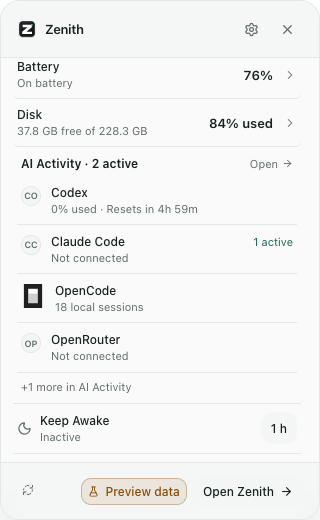
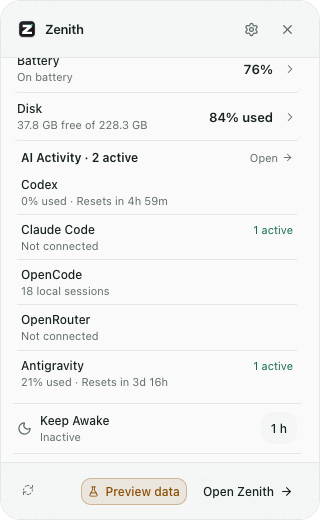
fix(ui): fit quick panel content and unify provider rows

diff --git a/src/routes/dashboard/AiControlCenterView.svelte b/src/routes/dashboard/AiControlCenterView.svelte
@@ -8,7 +8,7 @@
   import Card from '../../lib/components/Card.svelte';
   import ProgressBar from '../../lib/components/ProgressBar.svelte';
   import Switch from '../../lib/components/Switch.svelte';
-  import { Activity, Battery, Bot, GitBranch, RefreshCw, ShieldCheck, Sparkles, X } from '@lucide/svelte';
+  import { Activity, Battery, Bot, GitBranch, RefreshCw, ShieldCheck, X } from '@lucide/svelte';
 
   interface Props { onNavigateTab?: (tab: DashboardRoute) => void }
   let { onNavigateTab }: Props = $props();
@@ -88,7 +88,7 @@
 <div class="space-y-6">
   <div class="flex items-center justify-between border-b border-border/60 pb-3">
     <div class="flex items-center gap-3">
-      <div class="flex h-9 w-9 items-center justify-center rounded-lg bg-violet-500/10 text-violet-400"><Sparkles size={19} /></div>
+      <div class="flex h-9 w-9 items-center justify-center rounded-lg bg-secondary text-foreground"><Activity size={19} /></div>
       <div><h2 class="text-base font-semibold tracking-tight">AI Control Center</h2><p class="mt-0.5 text-xs text-muted-foreground">Provenance-aware usage, verified sessions, and advisory safety controls</p></div>
     </div>
     <div class="flex items-center gap-2 shrink-0">

diff --git a/src/lib/components/AiUsageCards.svelte b/src/lib/components/AiUsageCards.svelte
@@ -1,7 +1,6 @@
 <script lang="ts">
   import type { AiProviderUsage } from '../models/types';
   import { formatResetDate, formatTimeUntil } from '../utils/format';
-  import { Bot, Terminal, Zap } from '@lucide/svelte';
   import Button from './Button.svelte';
   import Card from './Card.svelte';
   import ProgressBar from './ProgressBar.svelte';
@@ -37,12 +36,7 @@
     {@const loading = isProviderLoading(provider.id)}
     <Card class="flex min-h-[190px] flex-col p-4">
       <div class="flex items-start justify-between gap-3">
-        <div class="flex items-center gap-2.5 min-w-0">
-          <div class="h-8 w-8 shrink-0 rounded-lg bg-secondary flex items-center justify-center text-foreground">
-            {#if provider.id === 'codex' || provider.id === 'openai-api'}<Zap size={16} />
-            {:else if provider.id === 'opencode' || provider.id === 'muse-code'}<Terminal size={16} />
-            {:else}<Bot size={16} />{/if}
-          </div>
+        <div class="min-w-0">
           <div class="min-w-0">
             <h3 class="truncate text-body font-semibold">
               {provider.name}{provider.model_identity ? ` · ${provider.model_identity}` : ''}

diff --git a/src/routes/quick/QuickPanel.svelte b/src/routes/quick/QuickPanel.svelte
@@ -50,7 +50,7 @@
   } from '@lucide/svelte';
 
   /** Keep the panel useful without turning it into an agent inventory. */
-  const AI_ROW_LIMIT = 4;
+  const AI_ROW_LIMIT = 5;
 
   let panelActive = false;
   let showResultModal = $state(false);
@@ -516,9 +516,8 @@
       {:else}
         <ul class="divide-y divide-border">
           {#each visibleAiRows as row (row.id)}
-            <li class="flex min-w-0 items-start gap-2.5 px-1 py-2">
-              <BrandIcon identity={row.identity} label={row.name} size={20} class="mt-0.5" />
-              <div class="min-w-0 flex-1">
+            <li class="min-w-0 px-1 py-1.5">
+              <div class="min-w-0">
                 <div class="flex min-w-0 items-baseline justify-between gap-2">
                   <span class="min-w-0 break-words text-meta font-medium text-foreground">{row.name}</span>
                   {#if row.sessions.length > 0}

diff --git a/src/app.css b/src/app.css
@@ -197,8 +197,9 @@
    silhouette; the main window keeps the opaque page background. Without this
    the body would paint square corners behind the panel. */
 html.transparent-window,
-html.transparent-window body {
-  background: transparent;
+html.transparent-window body,
+html.transparent-window #app {
+  background-color: transparent;
 }
 
 /* Native dragging is started from the Svelte mouse handler via Tauri. */
@@ -349,8 +350,10 @@ html.transparent-window body {
 
 .quick-liquid-shell {
   border: 1px solid hsl(var(--border));
+  border-radius: var(--radius-2xl);
   background: hsl(var(--background));
   box-shadow: 0 16px 36px hsl(var(--foreground) / 0.11);
+  clip-path: inset(0 round var(--radius-2xl));
 }
 
 .quick-liquid-chrome {

diff --git a/src/lib/utils/quickPanel.ts b/src/lib/utils/quickPanel.ts
@@ -177,7 +177,6 @@ export function formatQuickProviderUsage(provider: AiProviderUsage, loading: boo
 export interface QuickAiRow {
   id: string;
   name: string;
-  identity: string;
   provider: AiProviderUsage | null;
   sessions: AgentQuickSessionRow[];
 }
@@ -195,7 +194,6 @@ export function projectQuickAiRows(
     const row: QuickAiRow = {
       id: `provider-${identity}`,
       name: provider.name,
-      identity: provider.id,
       provider,
       sessions: [],
     };
@@ -212,7 +210,6 @@ export function projectQuickAiRows(
     const row: QuickAiRow = {
       id: `session-${identity}`,
       name: session.tool_name,
-      identity: session.tool_name,
       provider: null,
       sessions: [session],
     };

diff --git a/src/test/quickPanel.test.ts b/src/test/quickPanel.test.ts
@@ -218,6 +218,10 @@ describe('quick panel AI provider projection', () => {
       expect(body).toContain('OpenCode');
       expect(body).not.toContain('Claude Code');
       expect(body).toContain('12 local sessions');
+      const activitySection = body.match(/<section[^>]*aria-label="Active AI and services"[\s\S]*?<\/section>/)?.[0];
+      expect(activitySection).toBeDefined();
+      expect(activitySection).not.toContain('<img');
+      expect(activitySection).not.toContain('>OP<');
     } finally {
       settingsStore.settings = previousSettings;
       usageStore.snapshot = previousSnapshot;

diff --git a/src-tauri/src/lib.rs b/src-tauri/src/lib.rs
@@ -49,10 +49,10 @@ use std::sync::{Arc, Mutex};
 use tauri::image::Image;
 use tauri::menu::{Menu, MenuItem, PredefinedMenuItem};
 use tauri::tray::{MouseButton, MouseButtonState, TrayIconBuilder, TrayIconEvent};
-use tauri::utils::config::WindowConfig;
+use tauri::utils::config::{Color, WindowConfig};
 use tauri::utils::TitleBarStyle;
 use tauri::{
-    AppHandle, Manager, PhysicalPosition, PhysicalSize, Rect, Runtime, WebviewWindow,
+    AppHandle, LogicalSize, Manager, PhysicalPosition, PhysicalSize, Rect, Runtime, WebviewWindow,
     WebviewWindowBuilder,
 };
 use zenith_platform::path_algebra::PathFlavor;
@@ -64,10 +64,17 @@ use zenith_platform::path_algebra::PathFlavor;
 /// a transparent undecorated window the same way, so the same configuration
 /// would reserve dead space and show alpha artifacts on Windows.
 fn platform_window_config(mut config: WindowConfig, flavor: PathFlavor) -> WindowConfig {
+    if config.label == "quick" {
+        // The transparent window alone does not guarantee that WebKit clears
+        // its own backing surface. A white WebView rectangle would show through
+        // the CSS-rounded corners even though the native window is transparent.
+        config.background_color = Some(Color(0, 0, 0, 0));
+    }
     if flavor.is_windows() {
         config.title_bar_style = TitleBarStyle::Visible;
         if config.label == "quick" {
             config.transparent = false;
+            config.background_color = None;
         }
     }
     config
@@ -280,9 +287,21 @@ fn quick_panel_position(
     )
 }
 
+fn quick_panel_size(desired: PhysicalSize<u32>, work_area: PhysicalSize<u32>) -> PhysicalSize<u32> {
+    const EDGE_INSET: u32 = 16;
+    PhysicalSize::new(
+        desired
+            .width
+            .min(work_area.width.saturating_sub(EDGE_INSET)),
+        desired
+            .height
+            .min(work_area.height.saturating_sub(EDGE_INSET)),
+    )
+}
+
 fn show_quick_panel(window: &WebviewWindow, tray_rect: Option<Rect>) -> tauri::Result<()> {
     if let Some(rect) = tray_rect {
-        if let Ok(size) = window.outer_size() {
+        if let Ok(current_size) = window.outer_size() {
             // Logical tray rectangles need a scale factor before the monitor
             // can be selected. Use the window's factor provisionally, then
             // recompute with the tray monitor's own factor, which differs in
@@ -290,18 +309,31 @@ fn show_quick_panel(window: &WebviewWindow, tray_rect: Option<Rect>) -> tauri::R
             let provisional_scale = window.scale_factor().unwrap_or(1.0);
             let provisional_anchor = tray_anchor(&rect, provisional_scale);
             let monitors = window.available_monitors().unwrap_or_default();
-            let target = monitor_containing_point(&monitors, provisional_anchor)
-                .map(|monitor| {
+            let target =
+                if let Some(monitor) = monitor_containing_point(&monitors, provisional_anchor) {
                     let anchor = tray_anchor(&rect, monitor.scale_factor());
                     let work_area = monitor.work_area();
+                    let configured_size = window
+                        .app_handle()
+                        .config()
+                        .app
+                        .windows
+                        .iter()
+                        .find(|config| config.label == "quick")
+                        .map(|config| {
+                            LogicalSize::new(config.width, config.height)
+                                .to_physical(monitor.scale_factor())
+                        })
+                        .unwrap_or(current_size);
+                    let size = quick_panel_size(configured_size, work_area.size);
+                    window.set_size(size)?;
                     quick_panel_position(anchor, size, work_area.position, work_area.size)
-                })
-                .unwrap_or_else(|| {
+                } else {
                     PhysicalPosition::new(
-                        provisional_anchor.x.round() as i32 - size.width as i32,
+                        provisional_anchor.x.round() as i32 - current_size.width as i32,
                         provisional_anchor.y.round() as i32 + 6,
                     )
-                });
+                };
             let _ = window.set_position(target);
         }
     }
@@ -595,10 +627,12 @@ pub fn specta_builder() -> tauri_specta::Builder<tauri::Wry> {
 mod tests {
     use super::platform_window_config;
     use super::quick_panel_position;
+    use super::quick_panel_size;
     use super::specta_builder;
     use super::tray_toggle_action;
     use super::QuickPanelVisibility;
     use super::TrayToggle;
+    use tauri::utils::config::Color;
     use tauri::utils::config::WindowConfig;
     use tauri::utils::TitleBarStyle;
     use tauri::{PhysicalPosition, PhysicalSize};
@@ -640,6 +674,19 @@ mod tests {
     }
 
     #[test]
+    fn quick_panel_grows_to_its_configured_size_and_fits_smaller_displays() {
+        let configured = PhysicalSize::new(800, 1_480);
+        assert_eq!(
+            quick_panel_size(configured, PhysicalSize::new(2_000, 1_800)),
+            configured
+        );
+        assert_eq!(
+            quick_panel_size(configured, PhysicalSize::new(700, 1_100)),
+            PhysicalSize::new(684, 1_084)
+        );
+    }
+
+    #[test]
     fn windows_window_config_uses_the_native_caption_bar() {
         let config: WindowConfig = serde_json::from_str(
             r#"{
@@ -677,6 +724,7 @@ mod tests {
         );
         assert!(!adapted.decorations);
         assert!(adapted.always_on_top);
+        assert_eq!(adapted.background_color, None);
     }
 
     #[test]
@@ -698,7 +746,9 @@ mod tests {
             r#"{"label": "quick", "title": "Zenith Quick", "transparent": true}"#,
         )
         .expect("parse window config");
-        assert!(platform_window_config(quick, PathFlavor::Posix).transparent);
+        let adapted_quick = platform_window_config(quick, PathFlavor::Posix);
+        assert!(adapted_quick.transparent);
+        assert_eq!(adapted_quick.background_color, Some(Color(0, 0, 0, 0)));
     }
 
     #[test]

diff --git a/DESIGN.md b/DESIGN.md
@@ -239,6 +239,8 @@ inventory is still valid.
 - `BrandIcon` resolves an identity through one typed registry: a reviewed local
   asset when the copyright holder's licence clearly permits redistribution, and
   otherwise a neutral two-letter monogram beside the factual product name.
+  Provider lists in the Quick Panel and AI usage view use names without identity
+  icons, so mixed asset availability never changes their hierarchy.
 - Reviewed assets live in `src/lib/assets/brands/`, are served offline from the
   bundle, keep their intrinsic proportions and colours, and are never filtered,
   recoloured, distorted, or clipped. The asset register with source URL,
@@ -264,7 +266,7 @@ secondary detail scrolls. Each tile opens its exact detail page.
 
 ### Quick Panel
 
-- At 320–360 px, use compact full-width reading rows. A label, current value,
+- At 320–400 px, use compact full-width reading rows. A label, current value,
   and one supporting fact should fit in roughly 48 px; details stay in the
   main window. The header and footer stay fixed while the body scrolls.
 - Show each AI provider once. Merge observed sessions into its identity row,
@@ -342,13 +344,14 @@ safety buffer, or other invented setting.
 
 ### Quick panel
 
-- Designed natively at 360 × 520, tested at 320 px stress width and constrained
-  heights. Fixed header and footer with at most one internal scrolling region.
+- Designed natively at 400 × 740 so the default sections and five AI rows fit
+  without scrolling. Clamp the native window to the active display's work area;
+  at narrower widths or constrained heights the body scrolls between a fixed
+  header and footer.
 - Default order: cleanup estimate and next action with `Review →`, CPU,
   memory pressure plus used amount, battery, disk capacity/free space, active AI
   and services with small identities and a count, Keep Awake state/duration.
-  Saved order and visibility stay authoritative, and metric sections pair up
-  two-per-row while full-width sections keep their own row.
+  Saved order and visibility stay authoritative. Metrics use full-width rows.
 - `Review` opens the relevant main-window review; it never deletes. The
   existing backend-owned Safe-only quick action stays available where eligible
   and is not broadened to models, volumes, or reviewed cache operations.

diff --git a/docs/design/issue-282/README.md b/docs/design/issue-282/README.md
@@ -3,16 +3,23 @@
 The before Quick Panel image is the running-app screenshot supplied with the
 issue request. The before sidebar image is the prior White & Mint browser
 preview. After images were captured from `just dev-web` at version 0.3.55 with
-mocked IPC data on 2026-09-25.
+mocked IPC data on 2026-09-25. The revised Quick Panel captures show provider
+names without mixed brand artwork and a 20 px clipped panel radius.
 
 | Surface | Before | After |
 | --- | --- | --- |
+| Quick Panel, default 400 × 740 | [Deployed card layout](before-deployed-quick.png) | [All default sections](after-quick-400.png) |
 | Quick Panel, 320 × 520 | [Running app](before-quick.png) | [Top](after-quick-320.png) · [AI and lower sections](after-quick-320-ai.png) |
 | Quick Panel, 360 × 520 | Same running-app reference | [Full panel](after-quick-360.png) |
 | Main sidebar, 960 × 660 | [Previous preview](before-sidebar.png) | [Updated preview](after-sidebar.png) |
 
-The Quick Panel's body scrolls independently of its fixed header and footer.
-The browser preview verifies rendered layout and mocked states. The already
+At the new 400 × 740 default size, the five preview providers, system metrics,
+cleanup summary, and Keep Awake control fit without scrolling. The native
+window shrinks to the active display's work area when needed; at smaller sizes,
+the body scrolls independently of its fixed header and footer.
+The browser preview verifies rendered layout and mocked states. At 360 px,
+`html`, `body`, and `#app` all compute to transparent backgrounds; the panel
+computes to a 20 px radius and clip path, with no horizontal overflow. The already
 running native Zenith window reported version 0.3.54 during this review, so it
 does not verify the new 0.3.55 interface. Native window placement, tray
 anchoring, and cleanup execution require a separate app pass; `just build-fast`
